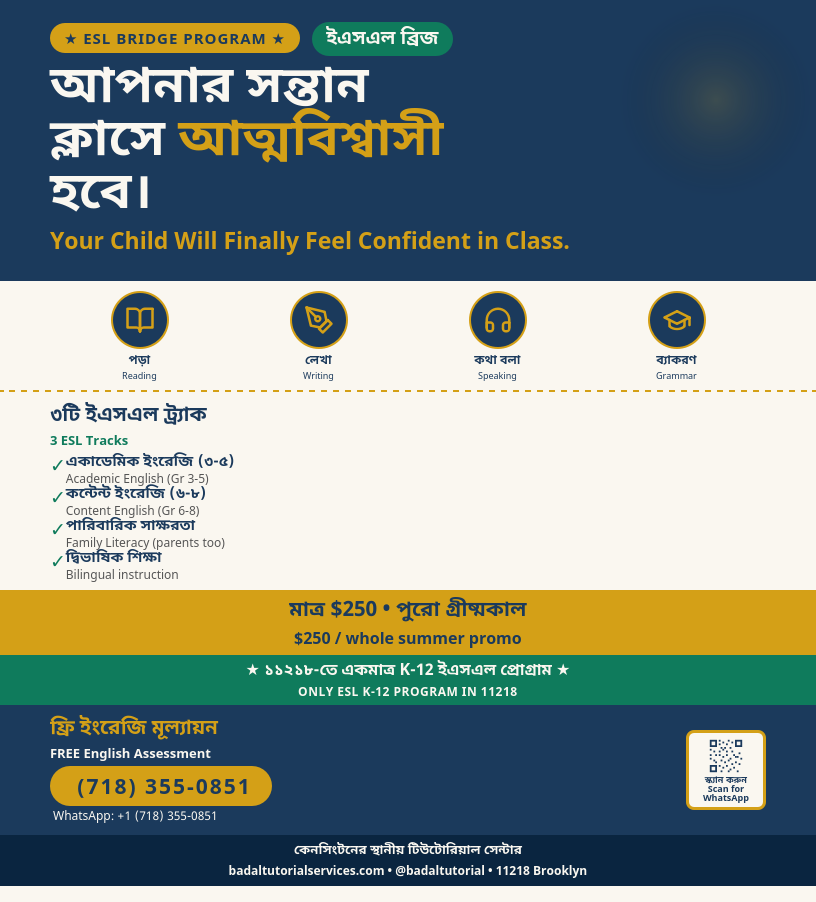
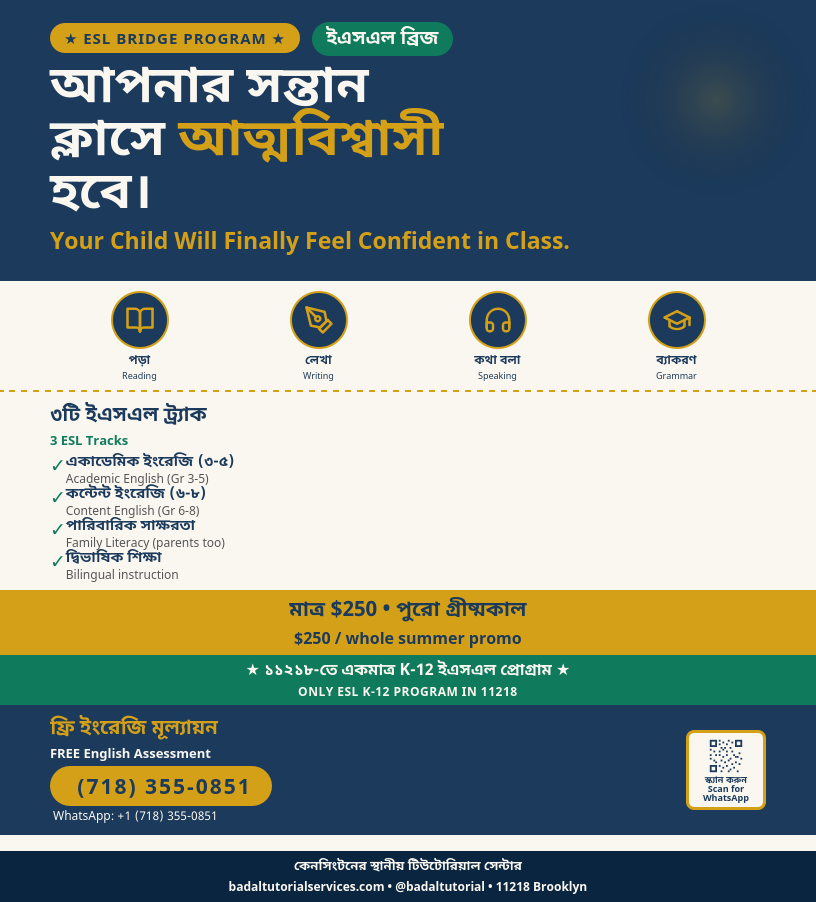
Fix ESL footer cutoff (flex spacer), unify 8.5x9.4in dim

Changed region(s): [[0.0, 0.9002, 1.0, 1.0]]

diff --git a/flyers/esl-bn.html b/flyers/esl-bn.html
@@ -13,7 +13,8 @@
   * { margin: 0; padding: 0; box-sizing: border-box; }
   body { font-family: 'BodySans', 'Noto Sans Bengali', 'BnFont', 'DejaVu Sans', sans-serif; }
 
-  .flyer { width: 8.5in; min-height: 9.4in; background: #FAF7F0; position: relative; overflow: hidden; }
+  .flyer { width: 8.5in; min-height: 9.4in; background: #FAF7F0; position: relative; overflow: hidden; display: flex; flex-direction: column; }
+  .spacer { flex: 1; background: #FAF7F0; }
   .hero { background: #1B3A5C; color: #FAF7F0; padding: 22px 50px 24px; position: relative; overflow: hidden; }
   .hero::before { content: ''; position: absolute; top: 0; right: 0; width: 200px; height: 200px; background: radial-gradient(circle, rgba(212,160,23,0.18) 0%, transparent 70%); }
   .badge { display: inline-block; background: #D4A017; color: #1B3A5C; padding: 4px 14px; border-radius: 18px; font-size: 11pt; font-weight: 700; letter-spacing: 1px; margin-bottom: 10px; font-family: 'BodySans', sans-serif; }
@@ -225,6 +226,8 @@
       <div class="qr-label">স্ক্যান করুন<br>Scan for WhatsApp</div>
     </div>
   </div>
+
+  <div class="spacer"></div>
 
   <div class="footer">
     <div class="footer-bn">কেনসিংটনের স্থানীয় টিউটোরিয়াল সেন্টার</div>
